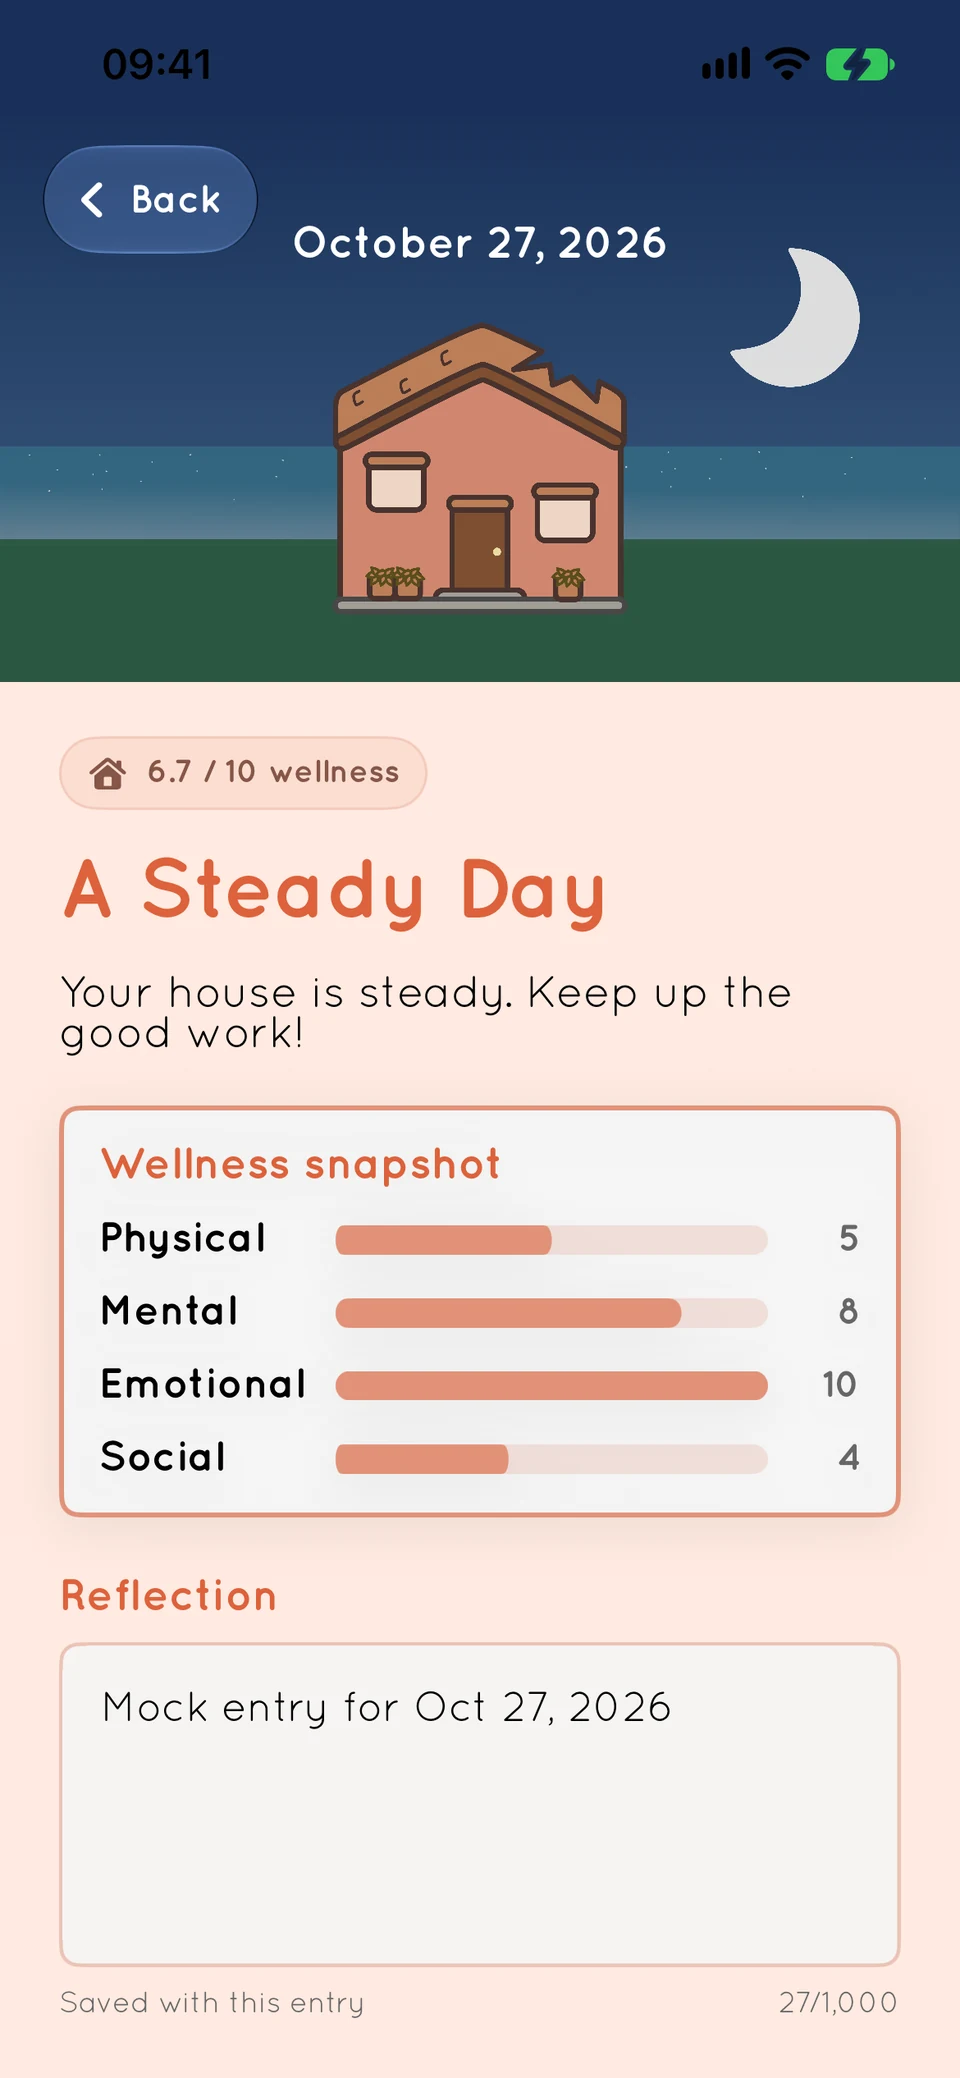
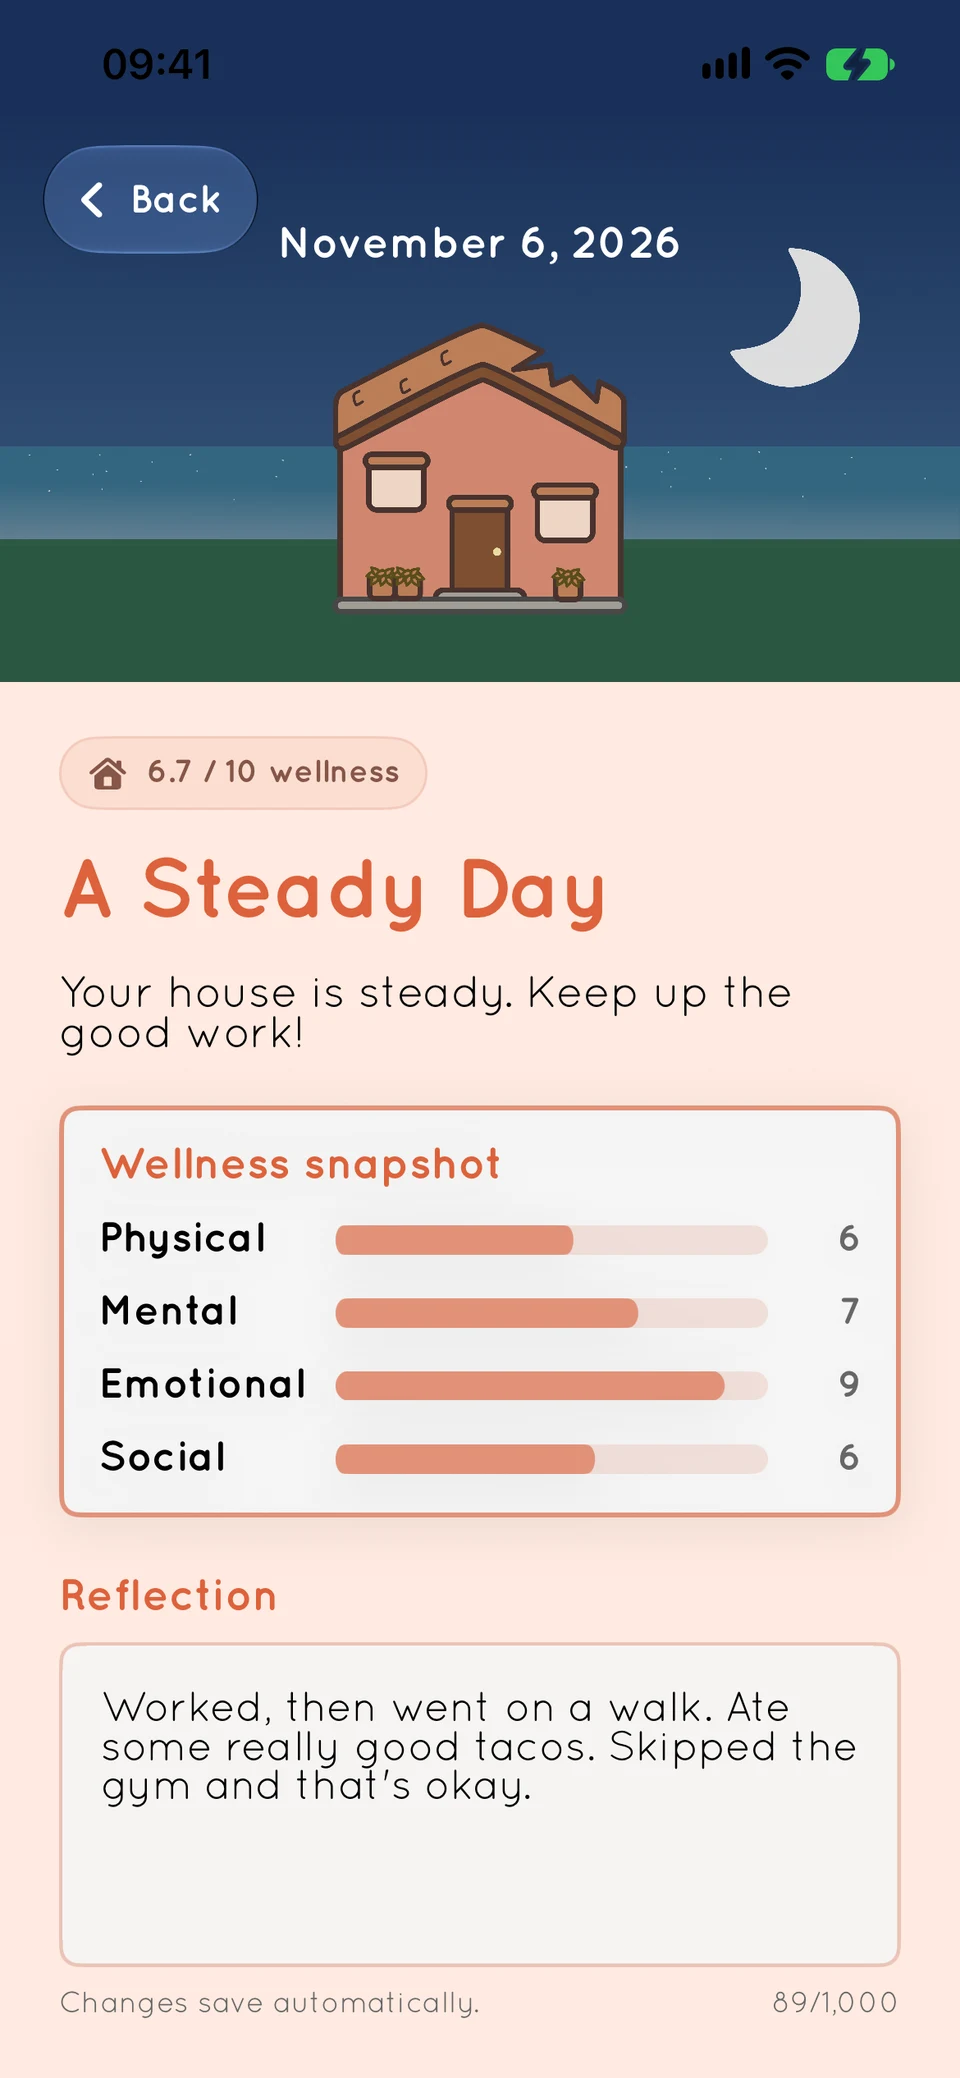
Show a sample reflection note on the day-detail screenshot
Replace the October night capture with a November 7 capture of a 6.7 day, typed into the app's Reflection field in the simulator. Record the new source, hash and capture details in ASSETS.md and screenshots.json, and correct the alt text that called the note a mock entry.

diff --git a/ASSETS.md b/ASSETS.md
@@ -2,14 +2,13 @@
 
 ## Real app screenshots
 
-The three screenshot sets in `src/assets/` are resized WebP copies of actual NeuroNook UI test attachments. No app controls, text, scores, or device frames were drawn or replaced. The example entries are synthetic fixtures; the detail screen visibly says “Mock entry for Oct 27, 2026.” Inspection found no personal journal content or identifying user information in these selected screens.
+The `neighborhood*.webp` and `calendar*.webp` screenshot sets in `src/assets/` are resized WebP copies of actual NeuroNook UI test attachments. No app controls, text, scores, or device frames were drawn or replaced. The example entries are synthetic fixtures. Inspection found no personal journal content or identifying user information in these selected screens. The day-detail screen has its own section below.
 
 Source: `weskcode/NeuroNook`, historical source SHA `1614043f1d29e95d384e20c25b4b44c6ab0ca446`, U5 generation 8, `g8-en-light-default`. The test attachment manifest timestamps are **October 28, 2026 UTC**, as also documented in `reports/U5.md` section 19 of the October 26 program's evidence. These are recent historical captures, not a verification of the current app candidate. Device: iPhone 17e, iOS 27.0, English, light appearance, default text size; the neighborhood itself shows its nighttime sky.
 
 | Website asset | Original attachment | SHA-256 of original PNG |
 | --- | --- | --- |
[3 lines of base64/hex data omitted]
 
 The original 1170 × 2532 PNGs remain in the app's preserved evidence. The website copies were resized proportionally to 480 and 960 pixels wide with Pillow's Lanczos resampling, then encoded as WebP at quality 88. This is an offline asset preparation step, not part of the Eleventy build. `screenshots.json` records provenance alongside the assets. `social.png` uses a crop of the same real neighborhood screenshot with website copy.
@@ -23,7 +22,15 @@ The original 1170 × 2532 PNGs remain in the app's preserved evidence. The websi
[2 lines of base64/hex data omitted]
 
-The 1170 × 2532 originals are kept outside this repository, in `~/.codex/task-artifacts/neuronook-homepage-20261107/capture/`. They were resized the same way as the October set. The homepage still uses `day-detail*.webp` from October 28, whose neighborhood header shows the night sky, so the page shows both. `neighborhood*.webp`, `calendar*.webp` and `social.png` are the October captures and no longer appear in the homepage markup (`social.png` is still the social preview image).
+The 1170 × 2532 originals are kept outside this repository, in `~/.codex/task-artifacts/neuronook-homepage-20261107/capture/`. They were resized the same way as the October set. `neighborhood*.webp`, `calendar*.webp` and `social.png` are the October captures and no longer appear in the homepage markup (`social.png` is still the social preview image).
+
+### Day detail with a sample note, November 7, 2026
+
+`day-detail*.webp` replaces the October 28 capture. It is a resized copy of `day-detail-note.png`, taken from the same Debug simulator build as the daytime captures above (`799d41f4d4206e0fdadf59230193beb090f1264a`), on iPhone 17e, iOS 27.2, English, light appearance, default text size, status bar fixed at 9:41, with the same launch flags. It was taken at about 8:50 PM Eastern on November 7 (01:50 UTC November 8), so the header shows the app's night sky. The seeded entry for November 6, 2026 scored 6.7 out of 10 on that launch (Physical 6, Mental 7, Emotional 9, Social 6). The Reflection text “Worked, then went on a walk. Ate some really good tacos. Skipped the gym and that’s okay.” was typed into the app's own Reflection field in the simulator, replacing the seeded “Mock entry” text. The in-memory mock journal holds it, and nothing was written to stored settings. No pixels were edited afterwards. The note is sample copy written for the website, not a real user's entry.
+
+| Website asset | Capture | SHA-256 of original PNG |
+| --- | --- | --- |
[1 lines of base64/hex data omitted]
 
 ### Mini-game captures, November 7, 2026
 
